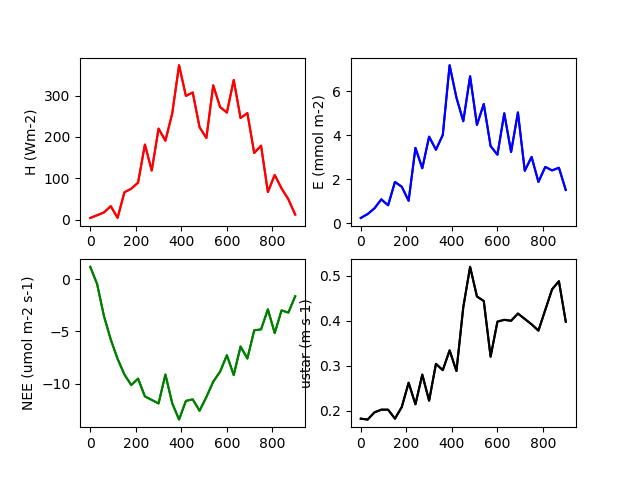
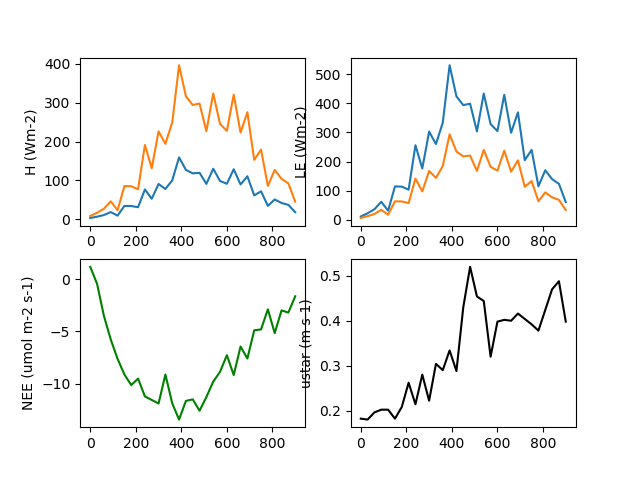
add figs

diff --git a/mxl_bowen_ratio.py b/mxl_bowen_ratio.py
@@ -1,0 +1,194 @@
+# -*- coding: utf-8 -*-
+"""
+SCRIPT FOR TESTING MIXED-LAYER MODEL USING ONE DAYTIME DATA FROM HYYTIÄLÄ
+
+Created on Thu Sep 20 14:55:56 2018
+
+@author: slauniai
+"""
+
+import numpy as np
+import pandas as pd
+import os
+import matplotlib.pyplot as plt
+
+# --- import constants from module mxl
+from mxl import CP_AIR_MASS, MAIR_DRY, MH2O, NT, R
+# --- import model class and utility functions from module mxl
+from mxl import MXLmodel, air_density, read_forcing
+#import mxl # mixed-layer model
+
+EPS = np.finfo(float).eps  # machine epsilon
+LMOLAR = 44100.0  # J/mol latent heat of vaporization at 20 deg C
+
+# ---- parameters & initial conditions for mxl model
+
+wdir = 'c:\\Repositories\\mxl\\'
+os.chdir(wdir)
+print('---- working dir: ' + os.getcwd())
+
+print('---- reading forcing ---')
+# --- read forcing for testing mxl growth
+ffile = 'forc_2010_d184_186.dat'
+
+fday = '2010-07-03'
+lday = '2010-07-03'
+
+# read forcing into pd.dataframe
+dat, tvec = read_forcing(ffile)
+dat.index = tvec
+
+# select one day and conditions when H > 0
+forc = dat.loc['2010-07-03' : '2010-07-03'][['H','E', 'NEE', 'P', 'Ta','U','ust']]
+# ix = forc['H'] < 0
+#forc['H'][ix] = 0.0
+
+# this selects periods when H >0 from forcing.
+forc = forc[forc['H'] > 0]
+
+# plot figure
+plt.figure()
+plt.plot(forc['H']); plt.ylabel('H (Wm-2)')
+
+forc['P'] = 1e2*forc['P']  # Pa
+forc['Ta'] += NT  # K
+
+# -- convert units of surface fluxes; first adjust H and LE with bowen ratios
+MAIR_MOLAR = (forc['P'] / (R*forc['Ta'])).values
+
+H = forc['H'].values
+LE = 1e-3*forc['E'].values * LMOLAR
+AE = H + LE
+
+beta1 = 0.3
+le1 = AE / (beta1 + 1)
+h1 = AE - le1
+F_h2o1 = le1 / (beta1 + 1) / LMOLAR / MAIR_MOLAR *MH2O / MAIR_DRY
+F_h1 = h1 / (1.2*CP_AIR_MASS)
+
+beta2 = 1.35
+le2 = AE / (beta2 + 1)
+h2 = AE - le2
+F_h2o2 = le2 / LMOLAR / MAIR_MOLAR *MH2O / MAIR_DRY
+F_h2 = h2 / (1.2*CP_AIR_MASS)
+
+# originally in H Wm-2, E mmol m-2s-1, NEE umolm-2s-1, P hPa, Ta degC, u, ust ms-1
+
+#F_h = forc['H'].values / (1.2*CP_AIR_MASS)  # K ms-1, use constant air density
+#MAIR_MOLAR = (forc['P'] / (R*forc['Ta'])).values
+#F_h2o = 1e-3*forc['E'].values / MAIR_MOLAR *MH2O / MAIR_DRY # mmol m-2s-1 --> kg/kg ms-1
+#
+F_co2 = forc['NEE'].values / MAIR_MOLAR  # ppm ms-1, <0 is sink
+#
+ustar = forc['ust'].values # m s-1
+
+# --- initialize mxl model    
+
+mxlpara = {'dt': 1800.0, # s 
+           'f': 1e-4,  # s-1
+           'beta': 0.2, # closure constant
+           'divU': 0.0, # large-scale subsidence due horizontal wind divergence s-1
+           'ctr': {'Wind': True}
+            }
+
+ini = {'h': 200.,           # m
+       'theta': 288.0,      # K
+       'q': 8.0e-3,         # kg kg-1
+       'ca': 422.0,         # ppm
+       'theta_jump': 1.0,   # K
+       'gamma_theta': 6e-3, # K m-1
+       'q_jump': -1.0e-3,   # kg kg-1
+       'gamma_q': -1.45e-6, # kg kg-1 m-1
+       'ca_jump': -40.0,    # ppm
+       'gamma_ca': 0.0,     # ppm m-1
+       'u': 5.0,            # m s-1
+       'u_jump': 8.0,       # m s-1, geostrophic wind is u_jump + u
+       'gamma_u': 0.0,      # s-1
+       'Psurf': 101.3       # kPa
+      }
+
+print('---- creating MXL-model----')
+
+# --- Create model instance
+run1 = MXLmodel(ini, mxlpara)
+run2 = MXLmodel(ini, mxlpara)
+## print run1.__dict_
+
+print('---- running MXL-model----')
+nsteps = len(forc['H']) # len(F_h)
+tt = 30.*np.arange(0,nsteps) # time vector, min
+
+# initialize results dictionany, fill with NaN's
+res = {'h': np.ones(nsteps)*np.NaN, 'theta': np.ones(nsteps)*np.NaN, 
+       'q':np.ones(nsteps)*np.NaN, 'ca': np.ones(nsteps)*np.NaN,
+       'h_lcl': np.ones(nsteps)*np.NaN, 'vpd': np.ones(nsteps)*np.NaN,
+       'U': np.ones(nsteps)*np.NaN, 'u': np.ones(nsteps)*np.NaN
+      }
+
+res2 = {'h': np.ones(nsteps)*np.NaN, 'theta': np.ones(nsteps)*np.NaN, 
+       'q':np.ones(nsteps)*np.NaN, 'ca': np.ones(nsteps)*np.NaN,
+       'h_lcl': np.ones(nsteps)*np.NaN, 'vpd': np.ones(nsteps)*np.NaN,
+       'U': np.ones(nsteps)*np.NaN, 'u': np.ones(nsteps)*np.NaN
+      }
+
+# run model for nsteps
+for k in range(nsteps):
+    # run1
+    run1.run_timestep(F_h1[k], F_h2o1[k], F_co2[k], ustar[k])
+
+    res['h'][k] = run1.h
+    res['theta'][k] = run1.theta
+    res['q'][k] = run1.q
+    res['ca'][k] = run1.ca
+    res['h_lcl'][k] = run1.h_lcl
+    res['vpd'][k] = run1.vpd
+    res['U'][k] = run1.U
+    res['u'][k] = run1.u
+
+    run2.run_timestep(F_h2[k], F_h2o2[k], F_co2[k], ustar[k])
+
+    res2['h'][k] = run2.h
+    res2['theta'][k] = run2.theta
+    res2['q'][k] = run2.q
+    res2['ca'][k] = run2.ca
+    res2['h_lcl'][k] = run2.h_lcl
+    res2['vpd'][k] = run2.vpd
+    res2['U'][k] = run2.U
+    res2['u'][k] = run2.u
+print('---- making graphs----')
+
+plt.figure(1)
+plt.subplot(221); plt.plot(tt, h1, tt, h2); plt.ylabel('H (Wm-2)')
+plt.subplot(222); plt.plot(tt, le1, tt, le2); plt.ylabel('LE (Wm-2)')
+plt.subplot(223); plt.plot(tt, forc['NEE'], 'g'); plt.ylabel('NEE (umol m-2 s-1)')
+plt.subplot(224); plt.plot(tt, forc['ust'], 'k'); plt.ylabel('ustar (m s-1)')
+
+plt.savefig('forc.png')
+
+plt.figure(2)
+plt.subplot(321); plt.plot(tt, res['h'], label=r'$\beta$ = 0.3'); #plt.plot(tt, res['h_lcl'], label='lcl'); 
+plt.ylabel('mxl and lcl height (m)'); plt.legend(fontsize=8)
+plt.subplot(322); plt.plot(tt, res['theta']); plt.ylabel('Theta (K)')
+plt.subplot(323); plt.plot(tt, res['q']); plt.ylabel('q (kg/kg)')
+plt.subplot(324); plt.plot(tt, res['vpd']); plt.ylabel('vpd (kPa)')
+plt.subplot(325); plt.plot(tt, res['ca']); plt.ylabel('ca (ppm)'); plt.xlabel('time (min)')
+plt.subplot(326); plt.plot(tt, res['U'], label='U'); # plt.plot(tt, res['u'], label='u horiz')
+plt.ylabel('velocity (ms-1)'); plt.xlabel('time (min)'); plt.legend(fontsize=8)
+# beta=1.3
+plt.subplot(321); plt.plot(tt, res2['h'], '-', label=r'$\beta$ = 1.35'); #plt.plot(tt, res2['h_lcl'], label='lcl'); 
+plt.ylabel('mxl and lcl height (m)'); plt.legend(fontsize=8)
+plt.subplot(322); plt.plot(tt, res2['theta'], '-'); plt.ylabel('Theta (K)')
+plt.subplot(323); plt.plot(tt, res2['q'], '-'); plt.ylabel('q (kg/kg)')
+plt.subplot(324); plt.plot(tt, res2['vpd'], '-'); plt.ylabel('vpd (kPa)')
+plt.subplot(325); plt.plot(tt, res2['ca'], '-'); plt.ylabel('ca (ppm)'); plt.xlabel('time (min)')
+plt.subplot(326); plt.plot(tt, res2['U'], '-', label='U'); # plt.plot(tt, res2['u'], label='u horiz')
+plt.ylabel('velocity (ms-1)'); plt.xlabel('time (min)'); plt.legend(fontsize=8)
+
+plt.subplot(321)
+plt.plot(tt, res['h_lcl'], '--', label=r'$\beta$ = 0.3'); 
+plt.plot(tt, res2['h_lcl'], '--', label=r'$\beta$ = 1.35') 
+plt.legend(fontsize=6)
+plt.title(r'$\beta$ = 0.3 and 1.35, respectively')
+plt.savefig('mxl-variable-bowen.png')
+
+print('---- done ! ----')

diff --git a/mxl_demo.py b/mxl_demo.py
@@ -128,7 +128,7 @@ plt.subplot(224); plt.plot(tt, forc['ust'], 'k'); plt.ylabel('ustar (m s-1)')
 plt.savefig('forc.png')
 
 plt.figure(2)
-plt.subplot(321); plt.plot(tt, res['h'], label='mxl'); plt.plot(tt, h_lcl, label='lcl'); 
+plt.subplot(321); plt.plot(tt, res['h'], label='mxl'); plt.plot(tt, res['h_lcl'], label='lcl'); 
 plt.ylabel('mxl and lcl height (m)'); plt.legend(fontsize=8)
 plt.subplot(322); plt.plot(tt, res['theta']); plt.ylabel('Theta (K)')
 plt.subplot(323); plt.plot(tt, res['q']); plt.ylabel('q (kg/kg)')
